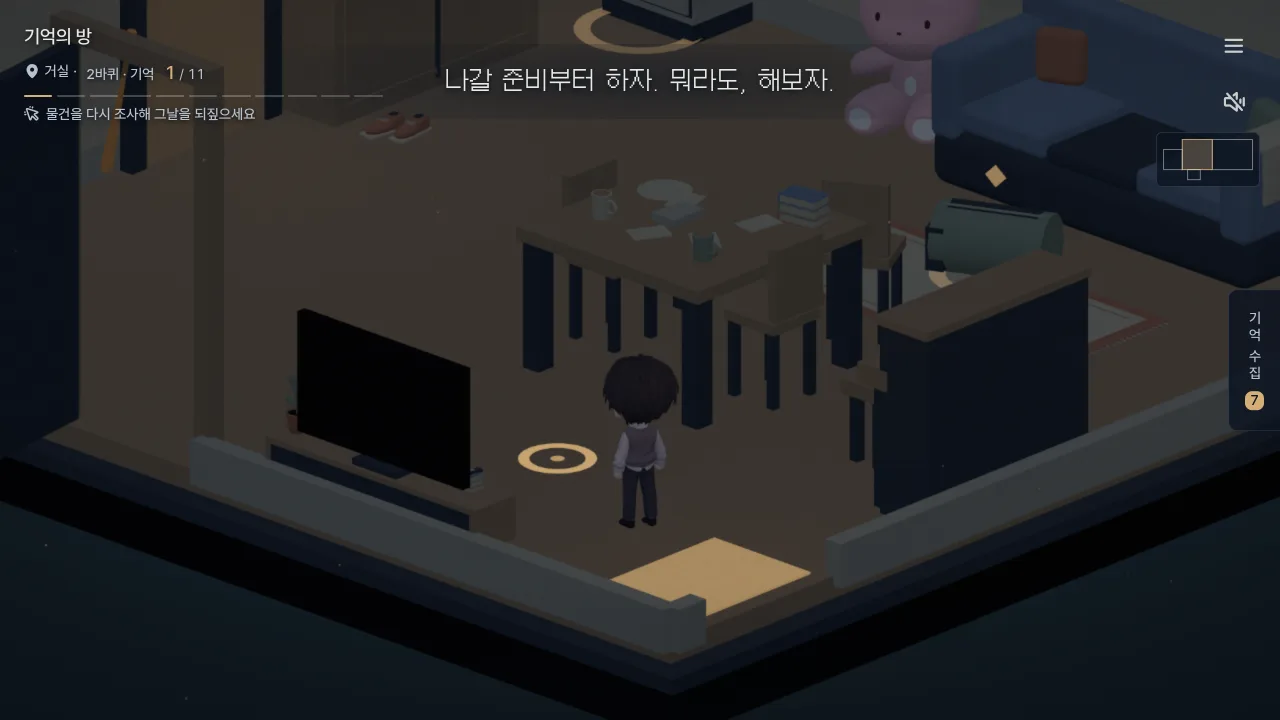
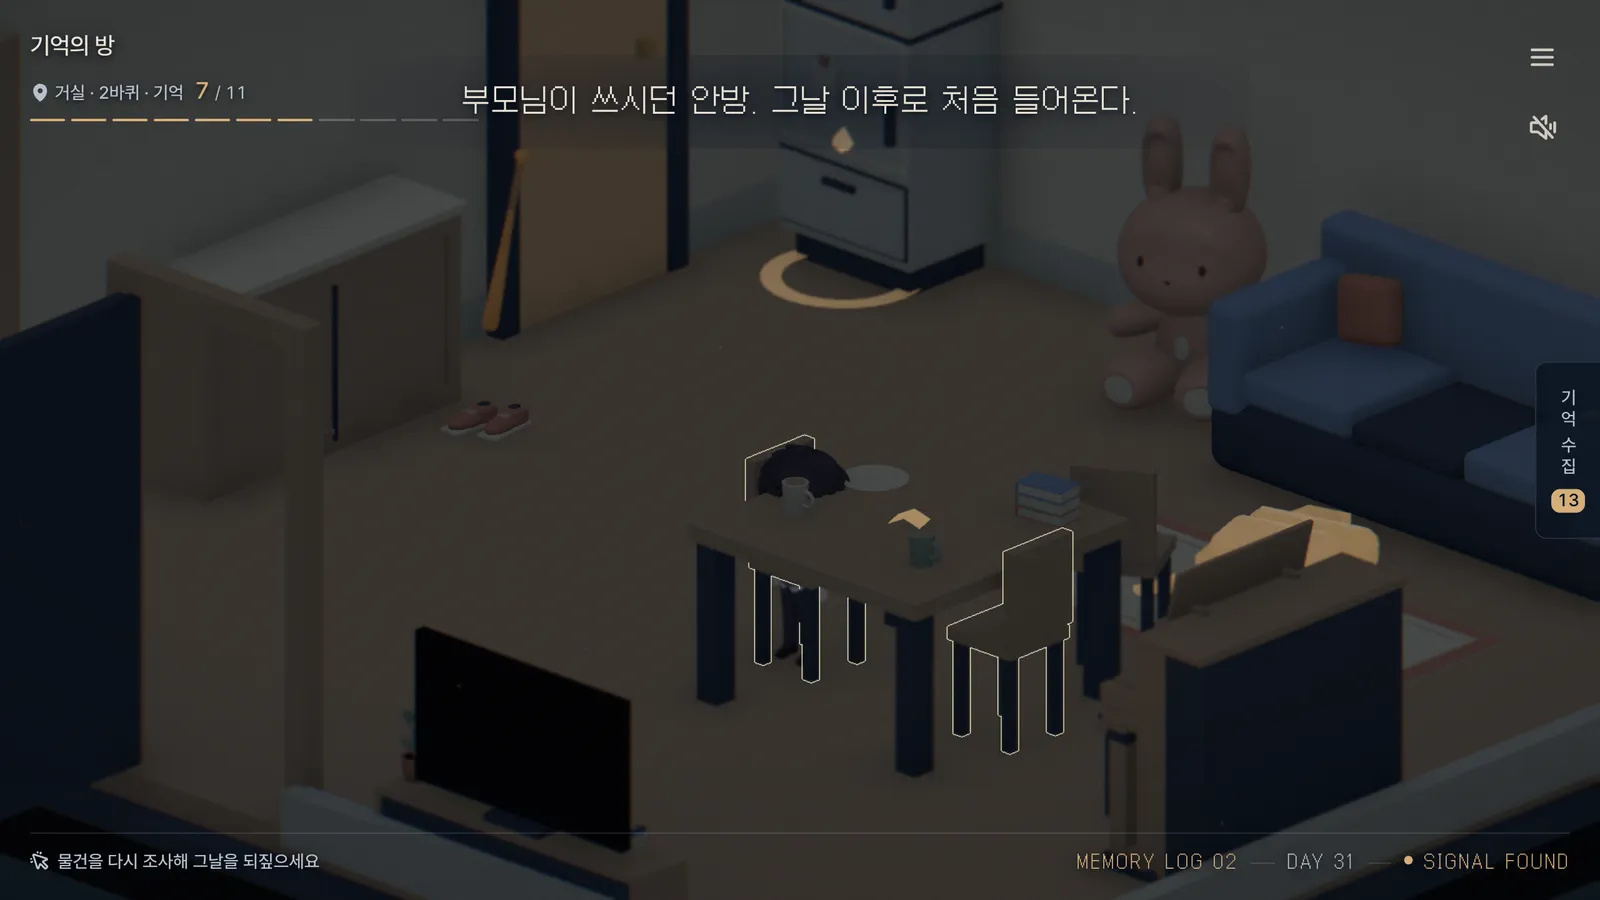
docs(readme): 스크린샷을 지금 화면으로 다시 찍는다
9/22 캡처 뒤로 타이틀 레이아웃, 컷씬 그림, 캐릭터 시트 일러스트가 바뀌어 리드미가
옛 화면을 보여 주고 있었다. 주요 장면 위주로 다시 찍는다: 타이틀, 방(초상·대사창),
거실, 회상 컷씬, 생존자 방송 컷씬, 격투 미니게임, 수첩 프로필.

불 끄고 시작(intro-dark)과 방 조사(room-investigate) 컷은 방 대사 장면으로 대신한다.
1600×900 webp, 일곱 장 합쳐 276KB.

diff --git a/README.md b/README.md
@@ -17,7 +17,7 @@
 
 <table>
 <tr>
-<td width="50%"><img src="docs/screenshots/room-investigate.webp" alt="불이 켜진 방"></td>
+<td width="50%"><img src="docs/screenshots/room-dialogue.webp" alt="방에서 게임기를 조사하며 대사가 흐르는 장면"></td>
 <td width="50%"><img src="docs/screenshots/living-room.webp" alt="거실"></td>
 </tr>
 <tr>
@@ -25,11 +25,19 @@
 <td align="center"><sub>거실</sub></td>
 </tr>
 <tr>
-<td><img src="docs/screenshots/intro-dark.webp" alt="어두운 방 1인칭 시점"></td>
-<td><img src="docs/screenshots/notebook.webp" alt="수첩 기록 페이지"></td>
+<td><img src="docs/screenshots/cutscene-flashback.webp" alt="교실 책상 위 게임기 회상 컷씬"></td>
+<td><img src="docs/screenshots/cutscene-broadcast.webp" alt="체육관 대피소의 생존자 방송 컷씬"></td>
 </tr>
 <tr>
-<td align="center"><sub>불 끄고 시작</sub></td>
+<td align="center"><sub>회상</sub></td>
+<td align="center"><sub>생존자 방송</sub></td>
+</tr>
+<tr>
+<td><img src="docs/screenshots/minigame-duel.webp" alt="격투 게임 미니게임"></td>
+<td><img src="docs/screenshots/notebook.webp" alt="수첩 프로필 페이지"></td>
+</tr>
+<tr>
+<td align="center"><sub>미니게임</sub></td>
 <td align="center"><sub>수첩</sub></td>
 </tr>
 </table>
